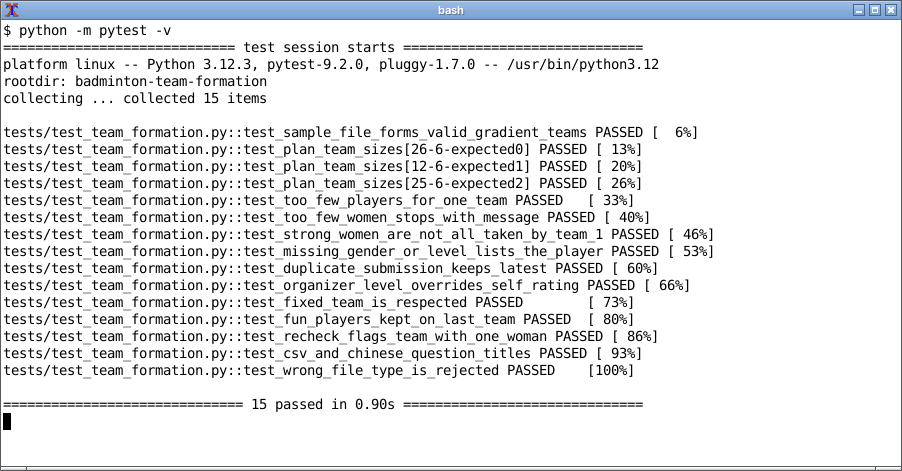
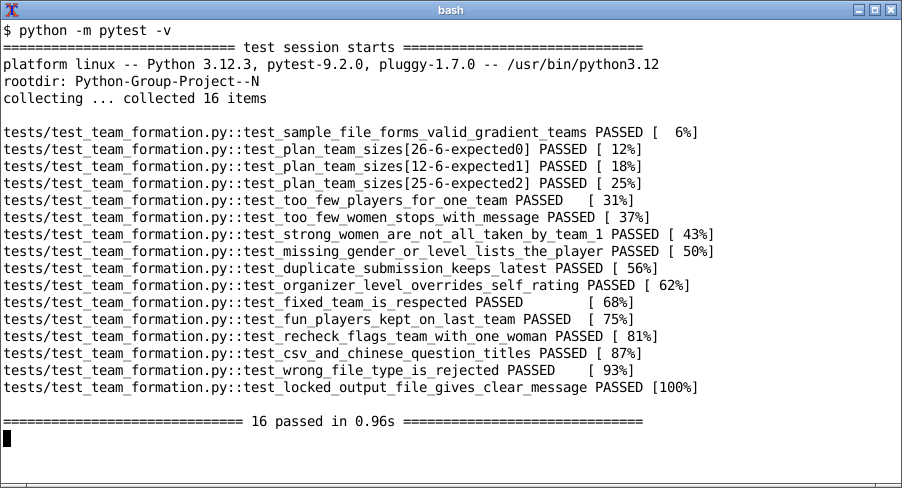
Add HOW_TO_USE guide, handle locked Excel file

Changed region(s): [[0.0, 0.0297, 1.0, 0.8917], [0.0, 0.9809, 1.0, 1.0], [0.745, 0.2378, 0.7761, 0.2972]]

diff --git a/badminton_teams/pipeline.py b/badminton_teams/pipeline.py
@@ -21,6 +21,16 @@ class Result:
         return checks.overall_result(self.checks)
 
 
+def _save(df, summary, table, issues, path):
+    """Write the Excel file; explain the most common Windows problem in plain words."""
+    try:
+        exporter.export_excel(df, summary, table, issues, path)
+    except PermissionError:
+        raise loader.InputDataError(
+            f"Cannot save {os.path.basename(str(path))}: it is probably open in Excel. "
+            "Close it and try again.") from None
+
+
 def default_output_path(input_path):
     """Save teams.xlsx next to the input file."""
     return os.path.join(os.path.dirname(os.path.abspath(input_path)), "teams.xlsx")
@@ -41,7 +51,7 @@ def form_teams_from_file(input_path, output_path=None, team_size=DEFAULT_TEAM_SI
     summary = checks.summarize(df)
     table = checks.check_rules(df, summary, max_men)
     output_path = output_path or default_output_path(input_path)
-    exporter.export_excel(df, summary, table, issues, output_path)
+    _save(df, summary, table, issues, output_path)
     return Result(df, summary, table, output_path, issues)
 
 
@@ -50,5 +60,5 @@ def recheck_file(teams_path, max_men=None):
     df = exporter.read_teams_file(teams_path)
     summary = checks.summarize(df)
     table = checks.check_rules(df, summary, max_men)
-    exporter.export_excel(df, summary, table, [], teams_path)
+    _save(df, summary, table, [], teams_path)
     return Result(df, summary, table, teams_path)

diff --git a/tests/test_team_formation.py b/tests/test_team_formation.py
@@ -126,3 +126,14 @@ def test_wrong_file_type_is_rejected(tmp_path):
     path.write_text("hello")
     with pytest.raises(InputDataError, match="xlsx or .csv"):
         pipeline.form_teams_from_file(path)
+
+
+# ---------- TC12: output file locked (open in Excel on Windows) ----------
+def test_locked_output_file_gives_clear_message(tmp_path, monkeypatch):
+    from badminton_teams import exporter
+
+    def locked(*args, **kwargs):
+        raise PermissionError("file is open")
+    monkeypatch.setattr(exporter, "export_excel", locked)
+    with pytest.raises(InputDataError, match="open in Excel"):
+        pipeline.form_teams_from_file(SAMPLE, tmp_path / "teams.xlsx")

diff --git a/HOW_TO_USE.md b/HOW_TO_USE.md
@@ -1,0 +1,140 @@
+# How to use this repository (for group members)
+
+This guide covers getting the code, running the program, what each file is for, and how to share your changes. You don't need Git experience.
+
+Repository: https://github.com/All3n0412/Python-Group-Project--N
+
+---
+
+## 1. Get the code
+
+**Option A: just look or try it (no Git needed)**
+Open the repository page → green **Code** button → **Download ZIP**, then unzip it anywhere.
+
+**Option B: you will change code (recommended)**
+Install Git from https://git-scm.com (default options are fine), then in a terminal:
+
+```
+git clone https://github.com/All3n0412/Python-Group-Project--N.git
+cd Python-Group-Project--N
+```
+
+To push changes, ask Allen to add you as a collaborator (GitHub → Settings → Collaborators).
+
+## 2. Install (once)
+
+1. Install **Python 3.10 or newer** from https://python.org. On Windows, tick **"Add python.exe to PATH"** during installation.
+2. In a terminal inside the project folder, run:
+
+```
+pip install -r requirements.txt
+```
+
+This installs pandas, openpyxl and pytest.
+
+## 3. Run the program
+
+| What you want | How |
+|---|---|
+| Use the window (easiest) | Double-click **`Start Team Formation.bat`**, or run `python run_gui.py` |
+| Try it on fake data | In the window, choose `data/sample/sample_responses.xlsx` → **Form teams** |
+| Command line | `python run.py data/sample/sample_responses.xlsx` |
+| Re-check after editing teams by hand | `python run.py --check teams.xlsx`, or the **Re-check edited file…** button |
+| Run all tests | `python -m pytest -v` (all should say PASSED) |
+
+The result `teams.xlsx` is saved **in the same folder as the file you chose**, with four sheets:
+- **Teams:** who is on which team. You can edit the *Team* column by hand.
+- **Summary:** size, men/women and average level per team.
+- **Checks:** every rule marked PASS / WARN / FAIL.
+- **Input issues:** problems found in the form data.
+
+## 4. What every file is
+
+### Main folder
+
+| File | What it is |
+|---|---|
+| `README.md` | Short project description: features, install, run |
+| `HOW_TO_USE.md` | This guide |
+| `requirements.txt` | Python packages to install |
+| `.gitignore` | Files Git must **not** upload (outputs, real data, cache) |
+| `run_gui.py` | Starts the window |
+| `run.py` | Starts the command-line version |
+| `Start Team Formation.bat` | Windows double-click launcher for the window |
+
+### `badminton_teams/`: the program itself
+
+Data flows through these modules in this order: loader → planner → formation → checks → exporter.
+
+| File | What it does | Change it when… |
+|---|---|---|
+| `config.py` | All rules (min. 2 women, min. 4 men) and the keywords used to find form columns | a rule changes, or the form questions are renamed |
+| `loader.py` | Reads the form file and cleans it (gender, attitude, level, duplicates) | the form gets new questions |
+| `planner.py` | Decides how many teams and how big; stops if the rules can't be met | team-size rules change |
+| `formation.py` | **The core algorithm:** ranks players and fills Team 1, 2, 3… with safety checks for women | the team logic changes |
+| `checks.py` | Builds the team summary and the PASS/WARN/FAIL rule table | a new rule needs checking |
+| `exporter.py` | Writes and reads the coloured Excel file | the Excel layout changes |
+| `pipeline.py` | Connects all modules; the window and the command line both call it | a new step is added |
+| `gui.py` | The tkinter window | the window changes |
+| `cli.py` | The command line (`run.py`) | command options change |
+
+### `tests/`
+
+| File | What it is |
+|---|---|
+| `test_team_formation.py` | 16 automated test cases (TC1–TC12 in the HW5 report) |
+| `conftest.py` | Helpers that build small fake form files for the tests |
+
+### `tools/`: helper scripts, not part of the program
+
+| File | What it is |
+|---|---|
+| `make_sample_data.py` | Creates the fake `sample_responses.xlsx` (26 players) |
+| `simulate_real_roster.py` | Creates `real_roster_simulated_levels.xlsx` from the real 11/22 team list. Names are replaced by P01–P25, and **levels are simulated** |
+| `compare_with_1122.py` | Runs the program on that roster and compares it with the organizer's real 11/22 teams; writes `output/teams_program_vs_1122.xlsx` |
+
+### `data/sample/`
+
+Fake or anonymized input files that are safe to share: `sample_responses.xlsx` and `real_roster_simulated_levels.xlsx`.
+
+### `docs/`
+
+- `diagrams/`: the architecture, user flow and wireframe images used in the report. The `.dot` and `.py` files are their editable sources.
+- `screenshots/`: screenshots of the program running, also used in the report.
+
+To redraw a diagram after editing a `.dot` file, install Graphviz and run:
+
+```
+dot -Tpng -Gdpi=170 architecture.dot -o architecture.png
+```
+
+## 5. Sharing your changes (Git workflow)
+
+Every time you work on the code:
+
+```
+git pull                      # 1. get everyone else's latest changes FIRST
+# ... edit files ...
+python -m pytest              # 2. make sure all tests still pass
+git add .                     # 3. stage your changes
+git commit -m "Short description of what you changed"
+git push                      # 4. upload
+```
+
+Rules:
+- **Pull before you start.** This avoids most conflicts.
+- **Stick to your own module** (see the roles in HW5 report §5.4). Two people editing the same file at the same time causes conflicts.
+- **Never commit real sign-up data** (real names, student IDs). Keep it in a `data/real/` folder, which Git ignores.
+- **If `git push` is rejected:** run `git pull`, then `git push` again.
+- **If `git pull` reports a conflict:** don't panic. Open the file, keep the right lines, delete the `<<<<<<<`, `=======` and `>>>>>>>` markers, then `git add .`, `git commit` and `git push`. If unsure, ask Allen before forcing anything.
+
+## 6. Common problems
+
+| Message | Fix |
+|---|---|
+| `'python' is not recognized…` | Python is not on PATH: reinstall and tick "Add python.exe to PATH", or use `py` instead of `python` |
+| `ModuleNotFoundError: No module named 'pandas'` | Run `pip install -r requirements.txt` |
+| "Cannot save teams.xlsx: it is probably open in Excel" | Close `teams.xlsx` in Excel and press **Form teams** again |
+| "Only 7 women for 4 teams…" | Not enough women for that many teams: raise **Players per team**, or recruit more women |
+| "Column for 'gender' not found" | A form question title changed: add the new wording to `COLUMN_KEYWORDS` in `config.py` |
+| The window doesn't open from the .bat file | Run `python run_gui.py` in a terminal to see the error message |

diff --git a/README.md b/README.md
@@ -4,6 +4,8 @@ Turns Google Form sign-ups into **skill-gradient badminton teams** (Team 1 stron
 
 Built for the NTU Economics department's entry to the College of Social Sciences Badminton Cup. Python Programming Foundation final project, Fall 2026.
 
+**Group members: start with [HOW_TO_USE.md](HOW_TO_USE.md).** It covers getting the code, running it, what each file is for, and the Git workflow.
+
 ## Features
 
 | ID | Feature | What it does |
@@ -20,6 +22,8 @@ Built for the NTU Economics department's entry to the College of Social Sciences
 ## Install
 
 ```
+git clone https://github.com/All3n0412/Python-Group-Project--N.git
+cd Python-Group-Project--N
 pip install -r requirements.txt
 ```
 
@@ -66,7 +70,7 @@ badminton_teams/      the program (one module per responsibility)
   exporter.py         write / read the Excel file
   pipeline.py         connects the modules (used by the CLI and the window)
   cli.py, gui.py      command line and tkinter window
-tests/                pytest test cases
+tests/                pytest test cases (16)
 tools/                sample-data generators and the 11/22 comparison script
 data/sample/          fake / anonymized data only
 docs/                 diagrams and screenshots
